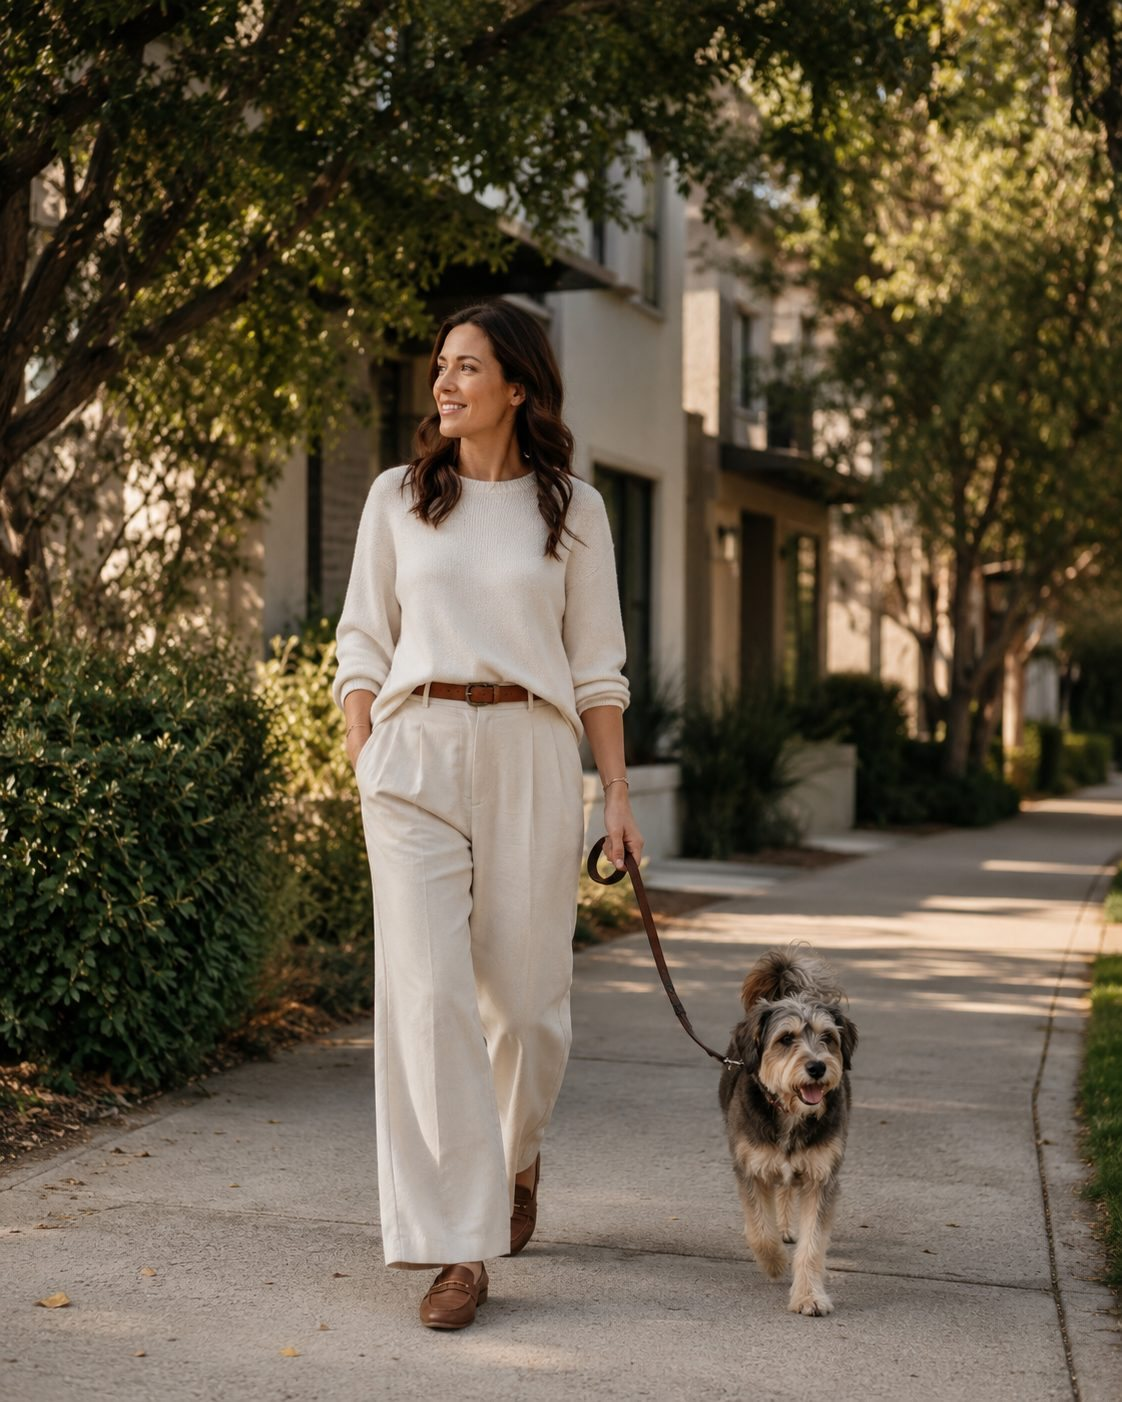
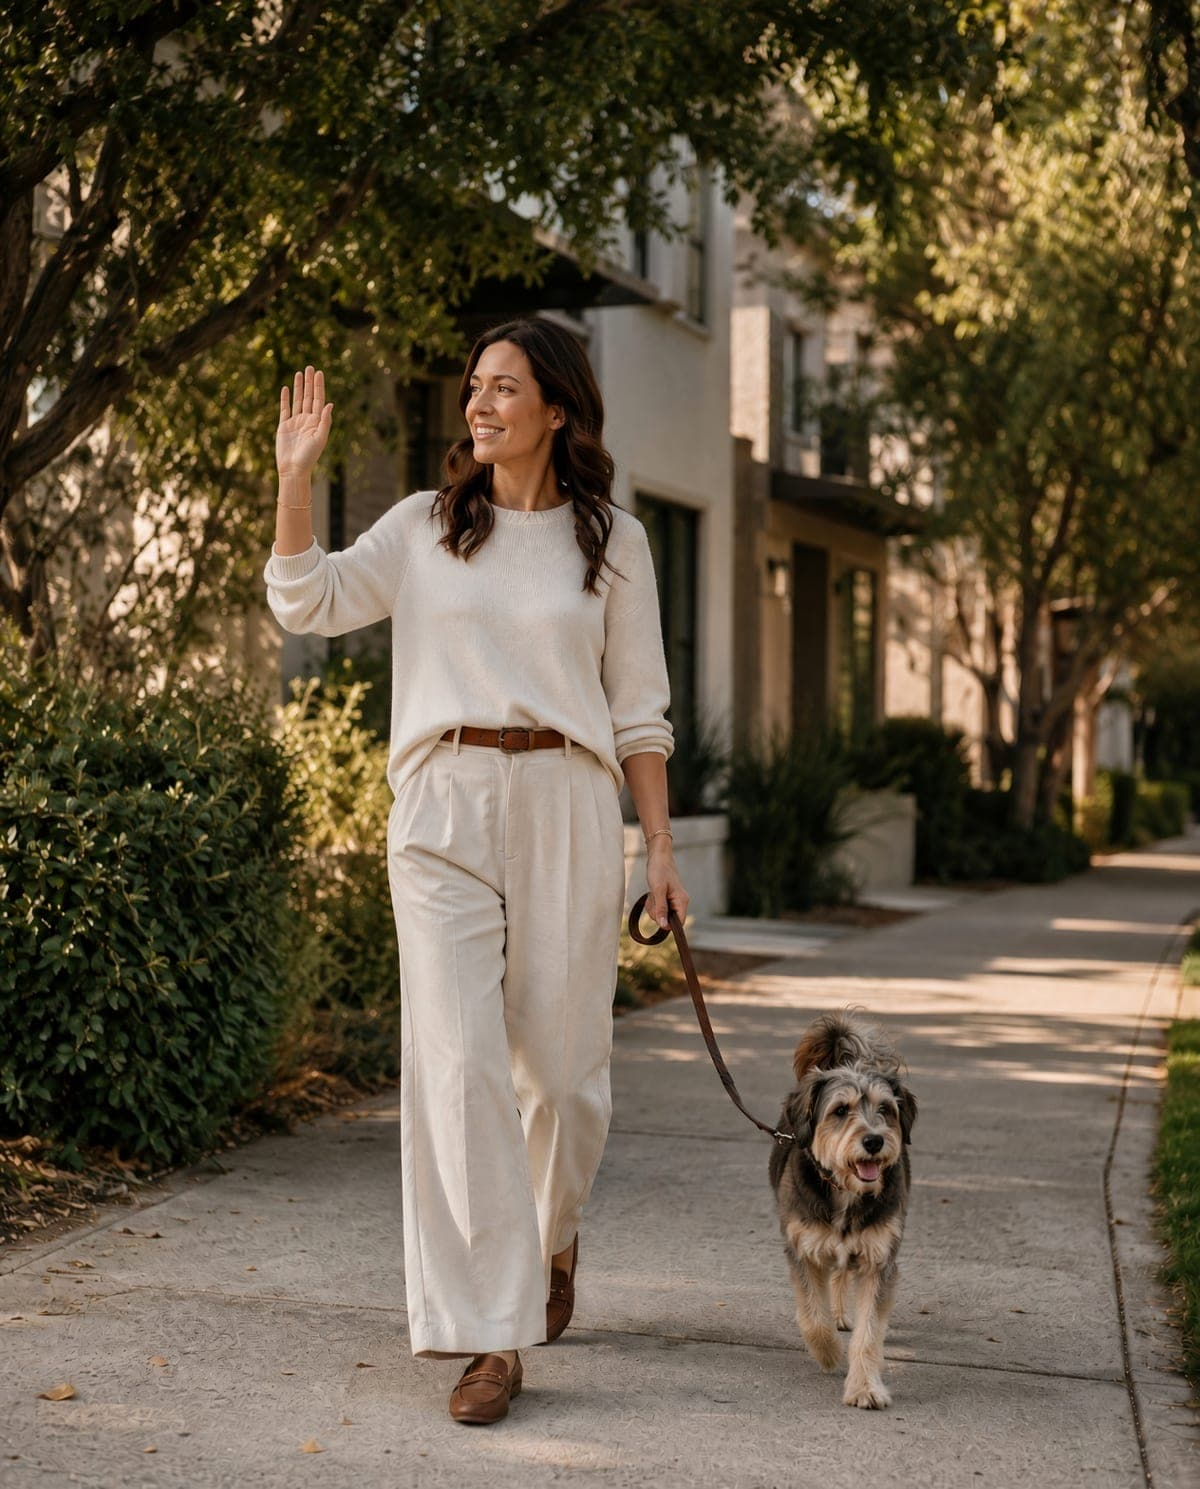
Swap in the new Grow photo, add a photo to /contact, restore the CTA question
Act 4 Grow takes the uploaded walking shot. Re-encoded from the 635KB original
to 1200x1489 at 206KB, in line with the other act photos, and given alt text
describing what is actually in the frame. The old grow-dog-walk.jpg is replaced
in place so no reference changes, and the uploaded VkOWk.jpg is removed.

The contact page gains the entryway photo under the email capture, filling the
column that was empty below it. That image was already in the repo as
human-life.png, unused, at 2072KB — it is now contact-arrival.jpg at 109KB,
1200x900.

Headline on both the closing section and /contact goes back to "What are you
making room for?".

Verified: the contact photo loads and crops 0% in its 4/3 frame; the Grow photo
fills its narrow frame with the subject centred; no horizontal overflow.

Claude-Session: https://claude.ai/code/session_01RTyZ77cVUMdY89VbFMGFWk

diff --git a/app/contact/page.tsx b/app/contact/page.tsx
@@ -16,7 +16,7 @@ export default function ContactPage(){
       <div className="shell contact-grid">
         <div className="contact-intro">
           <p className="rm-eyebrow">Start here</p>
-          <h1>SEE HOW WE CAN<br/>MAKE TIME FOR WHAT<br/>MATTERS TO YOU.</h1>
+          <h1>WHAT ARE YOU<br/>MAKING ROOM<br/>FOR?</h1>
           <p className="contact-lead">Leave your email. A real person reads every one and comes back to you — usually within a day.</p>
           <dl className="contact-meta">
             <div><dt>Email</dt><dd><a href="mailto:marcos@ollinos.com">marcos@ollinos.com</a></dd></div>
@@ -26,6 +26,9 @@ export default function ContactPage(){
         </div>
         <div className="contact-form">
           <ContactForm/>
+          <figure className="contact-photo">
+            <img src="/contact-arrival.jpg" alt="A woman coming through the front door at dusk, greeted by her daughter and their dog"/>
+          </figure>
         </div>
       </div>
     </section>

diff --git a/app/roommap.css b/app/roommap.css
@@ -223,6 +223,9 @@
 @media(max-width:520px){.capture-pill{flex-direction:column;align-items:stretch;border-radius:22px;padding:10px}.capture-pill button{justify-content:center}}
 
 /* Contact page */
+.contact-photo{margin:clamp(38px,4vw,60px) 0 0;border-radius:6px;overflow:hidden;aspect-ratio:4/3}
+.contact-photo img{width:100%;height:100%;object-fit:cover;display:block}
+
 .contact-page{background:#030303;color:#fff;padding:calc(92px + clamp(70px,7vw,120px)) 0 clamp(80px,8vw,130px);min-height:100vh}
 .contact-grid{display:grid;grid-template-columns:1fr 1fr;gap:clamp(40px,5vw,80px);align-items:start}
 .contact-intro h1{margin:16px 0 0;font-family:'Anton',sans-serif;font-weight:400;font-size:clamp(46px,6vw,96px);line-height:.92;letter-spacing:-.04em}

diff --git a/app/Conversation.tsx b/app/Conversation.tsx
@@ -6,7 +6,7 @@ export default function Conversation(){
       <div className="convo-media"><img src="/conversation-human.jpg" alt="A couple cooking dinner together at home in the evening"/></div>
       <div className="convo-body">
         <p className="rm-eyebrow">Start here</p>
-        <h2>SEE HOW WE CAN<br/>MAKE TIME FOR WHAT<br/>MATTERS TO YOU.</h2>
+        <h2>WHAT ARE YOU<br/>MAKING ROOM<br/>FOR?</h2>
         <ContactForm/>
       </div>
     </section>

diff --git a/app/Grow.tsx b/app/Grow.tsx
@@ -32,7 +32,7 @@ export default function Grow(){return (
           </svg>
 
           <div className="rm-photo" style={{width:340,height:560}}>
-            <img src="/grow-dog-walk.jpg" alt="A woman walking her dog"/>
+            <img src="/grow-dog-walk.jpg" alt="A woman waving to a neighbour while walking her dog on a tree-lined sidewalk"/>
           </div>
 
           <div className="rm-found" style={{left:390,top:110}}>
